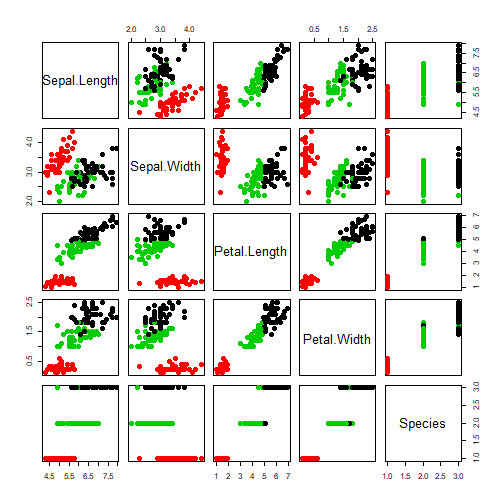
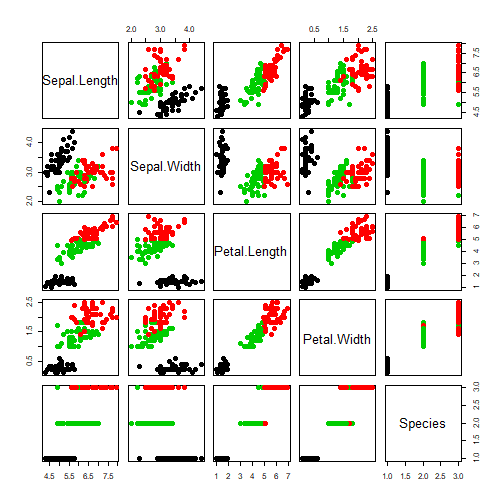
update .gitignore

diff --git a/presentation.R-rpubs.html b/presentation.R-rpubs.html
@@ -752,7 +752,7 @@ hljs.initHighlightingOnLoad();
 <h1>Course Project: K-Means Clustering Application</h1><p>Raunak Shakya<br/>November, 2018</p>
 
 <div class="slideContent" >
-<p><a href="http://rpubs.com/raunakshakya707/440548">http://rpubs.com/raunakshakya707/440548</a></p>
+<p><a href="http://rpubs.com/raunakshakya707/440550">http://rpubs.com/raunakshakya707/440550</a></p>
 
 </div>
 
@@ -788,23 +788,23 @@ hljs.initHighlightingOnLoad();
 iris_kmeans
 </code></pre>
 
-<pre><code>K-means clustering with 3 clusters of sizes 48, 50, 52
+<pre><code>K-means clustering with 3 clusters of sizes 50, 46, 54
 
 Cluster means:
   Petal.Length Petal.Width
-1     5.595833    2.037500
-2     1.462000    0.246000
-3     4.269231    1.342308
+1     1.462000    0.246000
+2     5.626087    2.047826
+3     4.292593    1.359259
 
 Clustering vector:
-  [1] 2 2 2 2 2 2 2 2 2 2 2 2 2 2 2 2 2 2 2 2 2 2 2 2 2 2 2 2 2 2 2 2 2 2 2
- [36] 2 2 2 2 2 2 2 2 2 2 2 2 2 2 2 3 3 3 3 3 3 3 3 3 3 3 3 3 3 3 3 3 3 3 3
- [71] 3 3 3 3 3 3 3 1 3 3 3 3 3 1 3 3 3 3 3 3 3 3 3 3 3 3 3 3 3 3 1 1 1 1 1
-[106] 1 3 1 1 1 1 1 1 1 1 1 1 1 1 3 1 1 1 1 1 1 3 1 1 1 1 1 1 1 1 1 1 1 3 1
-[141] 1 1 1 1 1 1 1 1 1 1
+  [1] 1 1 1 1 1 1 1 1 1 1 1 1 1 1 1 1 1 1 1 1 1 1 1 1 1 1 1 1 1 1 1 1 1 1 1
+ [36] 1 1 1 1 1 1 1 1 1 1 1 1 1 1 1 3 3 3 3 3 3 3 3 3 3 3 3 3 3 3 3 3 3 3 3
+ [71] 3 3 3 3 3 3 3 2 3 3 3 3 3 2 3 3 3 3 3 3 3 3 3 3 3 3 3 3 3 3 2 2 2 2 2
+[106] 2 3 2 2 2 2 2 2 2 2 2 2 2 2 3 2 2 2 3 2 2 3 3 2 2 2 2 2 2 2 2 2 2 3 2
+[141] 2 2 2 2 2 2 2 2 2 2
 
 Within cluster sum of squares by cluster:
-[1] 16.29167  2.02200 13.05769
+[1]  2.02200 15.16348 14.22741
  (between_SS / total_SS =  94.3 %)
 
 Available components:
@@ -824,7 +824,7 @@ Available components:
 points(iris_kmeans$centers, pch = 8, cex = 2, lwd = 2)
 </code></pre>
 
[2 lines of base64/hex data omitted]
 
 </div>
 

diff --git a/presentation.R.md b/presentation.R.md
@@ -4,7 +4,7 @@ author: Raunak Shakya
 date: November, 2018
 autosize: true
 
-http://rpubs.com/raunakshakya707/440548
+http://rpubs.com/raunakshakya707/440550
 
 Introduction
 ========================================================
@@ -34,23 +34,23 @@ iris_kmeans
 ```
 
 ```
-K-means clustering with 3 clusters of sizes 48, 50, 52
+K-means clustering with 3 clusters of sizes 50, 46, 54
 
 Cluster means:
   Petal.Length Petal.Width
-1     5.595833    2.037500
-2     1.462000    0.246000
-3     4.269231    1.342308
+1     1.462000    0.246000
+2     5.626087    2.047826
+3     4.292593    1.359259
 
 Clustering vector:
-  [1] 2 2 2 2 2 2 2 2 2 2 2 2 2 2 2 2 2 2 2 2 2 2 2 2 2 2 2 2 2 2 2 2 2 2 2
- [36] 2 2 2 2 2 2 2 2 2 2 2 2 2 2 2 3 3 3 3 3 3 3 3 3 3 3 3 3 3 3 3 3 3 3 3
- [71] 3 3 3 3 3 3 3 1 3 3 3 3 3 1 3 3 3 3 3 3 3 3 3 3 3 3 3 3 3 3 1 1 1 1 1
-[106] 1 3 1 1 1 1 1 1 1 1 1 1 1 1 3 1 1 1 1 1 1 3 1 1 1 1 1 1 1 1 1 1 1 3 1
-[141] 1 1 1 1 1 1 1 1 1 1
+  [1] 1 1 1 1 1 1 1 1 1 1 1 1 1 1 1 1 1 1 1 1 1 1 1 1 1 1 1 1 1 1 1 1 1 1 1
+ [36] 1 1 1 1 1 1 1 1 1 1 1 1 1 1 1 3 3 3 3 3 3 3 3 3 3 3 3 3 3 3 3 3 3 3 3
+ [71] 3 3 3 3 3 3 3 2 3 3 3 3 3 2 3 3 3 3 3 3 3 3 3 3 3 3 3 3 3 3 2 2 2 2 2
+[106] 2 3 2 2 2 2 2 2 2 2 2 2 2 2 3 2 2 2 3 2 2 3 3 2 2 2 2 2 2 2 2 2 2 3 2
+[141] 2 2 2 2 2 2 2 2 2 2
 
 Within cluster sum of squares by cluster:
-[1] 16.29167  2.02200 13.05769
+[1]  2.02200 15.16348 14.22741
  (between_SS / total_SS =  94.3 %)
 
 Available components:
